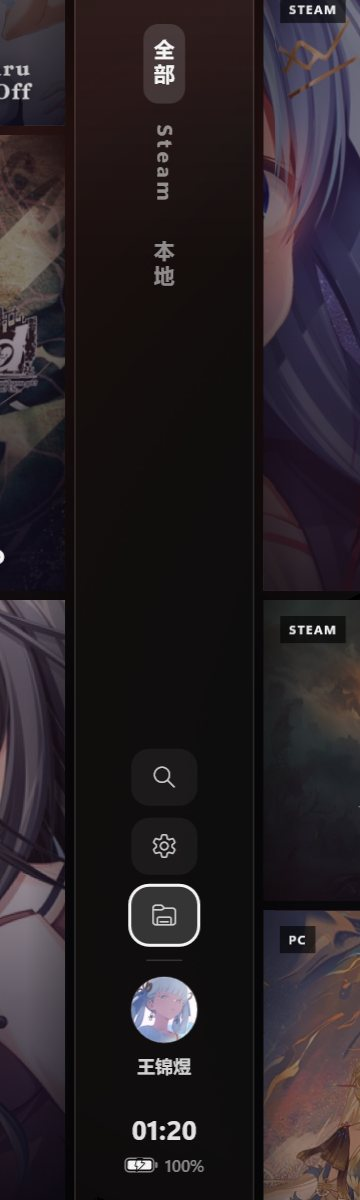
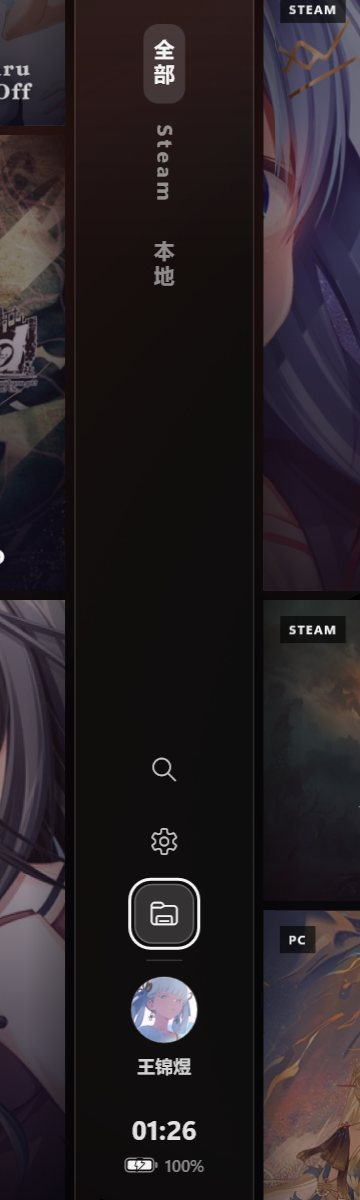
游戏库原生版：竖条工具格静止无框，焦点时才出现方形焦点框（照 folia）

Changed region(s): [[0.3361, 0.6167, 0.55, 0.8017], [0.5194, 0.925, 0.55, 0.9558]]

diff --git a/frontend/library-native/ClawLibrary/Stage/Rail.cs b/frontend/library-native/ClawLibrary/Stage/Rail.cs
@@ -138,8 +138,8 @@ public sealed class Rail
         float nameH = (float)name.LayoutBounds.Height;
         float accH = av + 8 + nameH;
         float accY = statusY - groupGap - accH;
-        // 工具：竖着一列（搜索、设置、文件管理器），每个 44 × 38，间隔 8
-        const float toolW = 44, toolH = 38, toolGap = 8;
+        // 工具：竖着一列（搜索、设置、文件管理器），照 folia 缝里的工具格：40 × 40 方格、圆角 12、静止时无底无框，间隔 8
+        const float toolW = 40, toolH = 40, toolGap = 8;
         var tools = new[] { (RailKind.Search, ""), (RailKind.Settings, ""), (RailKind.Explorer, "") };
         float toolsH = tools.Length * toolH + (tools.Length - 1) * toolGap;
         float ruleY = accY - groupGap / 2 - 0.5f;   // 工具与账户之间一道短分隔线
@@ -158,9 +158,15 @@ public sealed class Rail
         {
             var r = new Rect(cx - toolW / 2, toolsY + i * (toolH + toolGap), toolW, toolH);
             bool pressed = tools[i].Item1 == RailKind.Settings && m.SettingsOpen;
-            ds.FillRoundedRectangle(r, 12, 12, Gfx.WithAlpha(Theme.Ink, pressed ? 0.16 : 0.06));
-            var icon = this.H(tools[i].Item2, new FontSpec(IconFont, 400), 16);
-            DrawCentered(ds, icon, (float)(r.X + toolW / 2), (float)(r.Y + toolH / 2), pressed ? Theme.Ink : Gfx.WithAlpha(Theme.Ink, 0.8));
+            bool focused = focus == Items.Count;   // 这一项马上登记成第 Items.Count 项
+            // 焦点 / 按下时才出现底色与描边（folia：hover / is-pressed 都是 16 % 底，描边 26 %）
+            if (pressed || focused)
+            {
+                ds.FillRoundedRectangle(r, 12, 12, Gfx.WithAlpha(Theme.Ink, 0.16));
+                ds.DrawRoundedRectangle(new Rect(r.X + 0.5, r.Y + 0.5, r.Width - 1, r.Height - 1), 11.5f, 11.5f, Gfx.WithAlpha(Theme.Ink, 0.26), 1);
+            }
+            var icon = this.H(tools[i].Item2, new FontSpec(IconFont, 400), 18);
+            DrawCentered(ds, icon, (float)(r.X + toolW / 2), (float)(r.Y + toolH / 2), pressed ? Theme.Accent : focused ? Theme.Ink : Gfx.WithAlpha(Theme.Ink, 0.8));
             Add(tools[i].Item1, 0, r);
         }
         ds.FillRectangle(cx - 12, ruleY, 24, 1, Gfx.WithAlpha(Theme.Ink, 0.16));
@@ -190,8 +196,13 @@ public sealed class Rail
         if (focus >= 0 && focus < Items.Count)
         {
             var it = Items[focus];
-            if (it.Kind is RailKind.Account or RailKind.Search or RailKind.Settings or RailKind.Explorer)
-                Focus(ds, it.Bounds, 12);
+            if (it.Kind is RailKind.Search or RailKind.Settings or RailKind.Explorer)
+            {
+                // 工具格：方形焦点环（folia focus-visible：2 px 描边，离按钮 2 px），底色上面已经画了
+                var b = it.Bounds;
+                ds.DrawRoundedRectangle(new Rect(b.X - 3, b.Y - 3, b.Width + 6, b.Height + 6), 14, 14, Theme.Ink, 2);
+            }
+            else if (it.Kind == RailKind.Account) Focus(ds, it.Bounds, 12);
         }
     }
 

diff --git a/docs/native-library/README.md b/docs/native-library/README.md
@@ -115,3 +115,4 @@ CPU 0.8 %、GPU 3D 1.9 %；60 秒无操作后 CPU 0.04 %、GPU 0 %。
 
 - 反馈：底部挤，一排三个按钮太窄。现在自下而上：时间（18 px）一行、电池（图标 + 百分比）一行，都居中 → 账户（头像 44，名字在下）→ 一道短分隔线 → 搜索 / 设置 / 文件管理器**竖着排成一列**（每个 44 × 38，圆角 12，间隔 8）→ 上面整段留给平台页签。各组之间 22 px。
 - 手柄：三个按钮各占一行，上下就能走到；截图 `docs/native-library/rail-layout.jpg`（焦点在文件管理器上）。
+- 工具格照 folia（`.bravais-seam-tools .bravais-seam-icon`）：40 × 40 方格、圆角 12、**静止时无底无框**；焦点在上面时才出现 16 % 底 + 26 % 描边，外面一圈 2 px 的方形焦点环（离按钮 2 px）；设置打开时图标换强调色。
